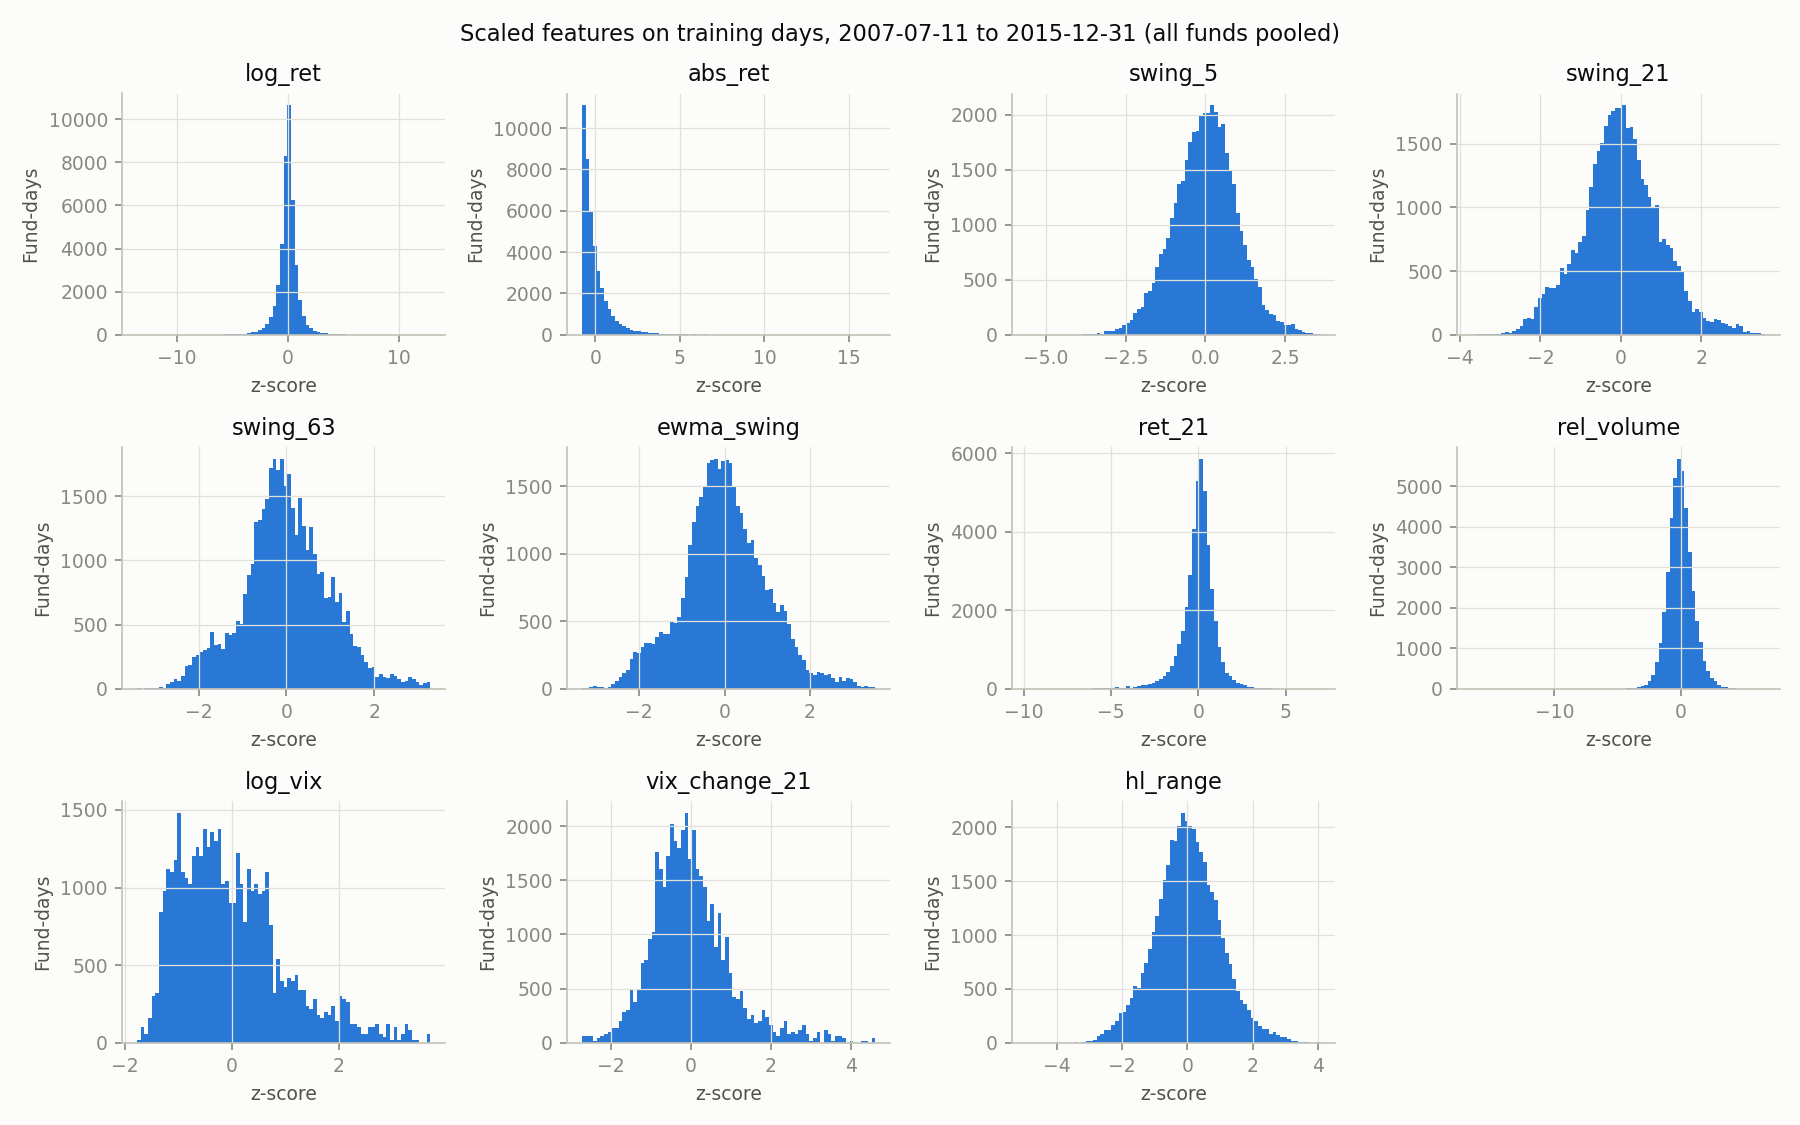
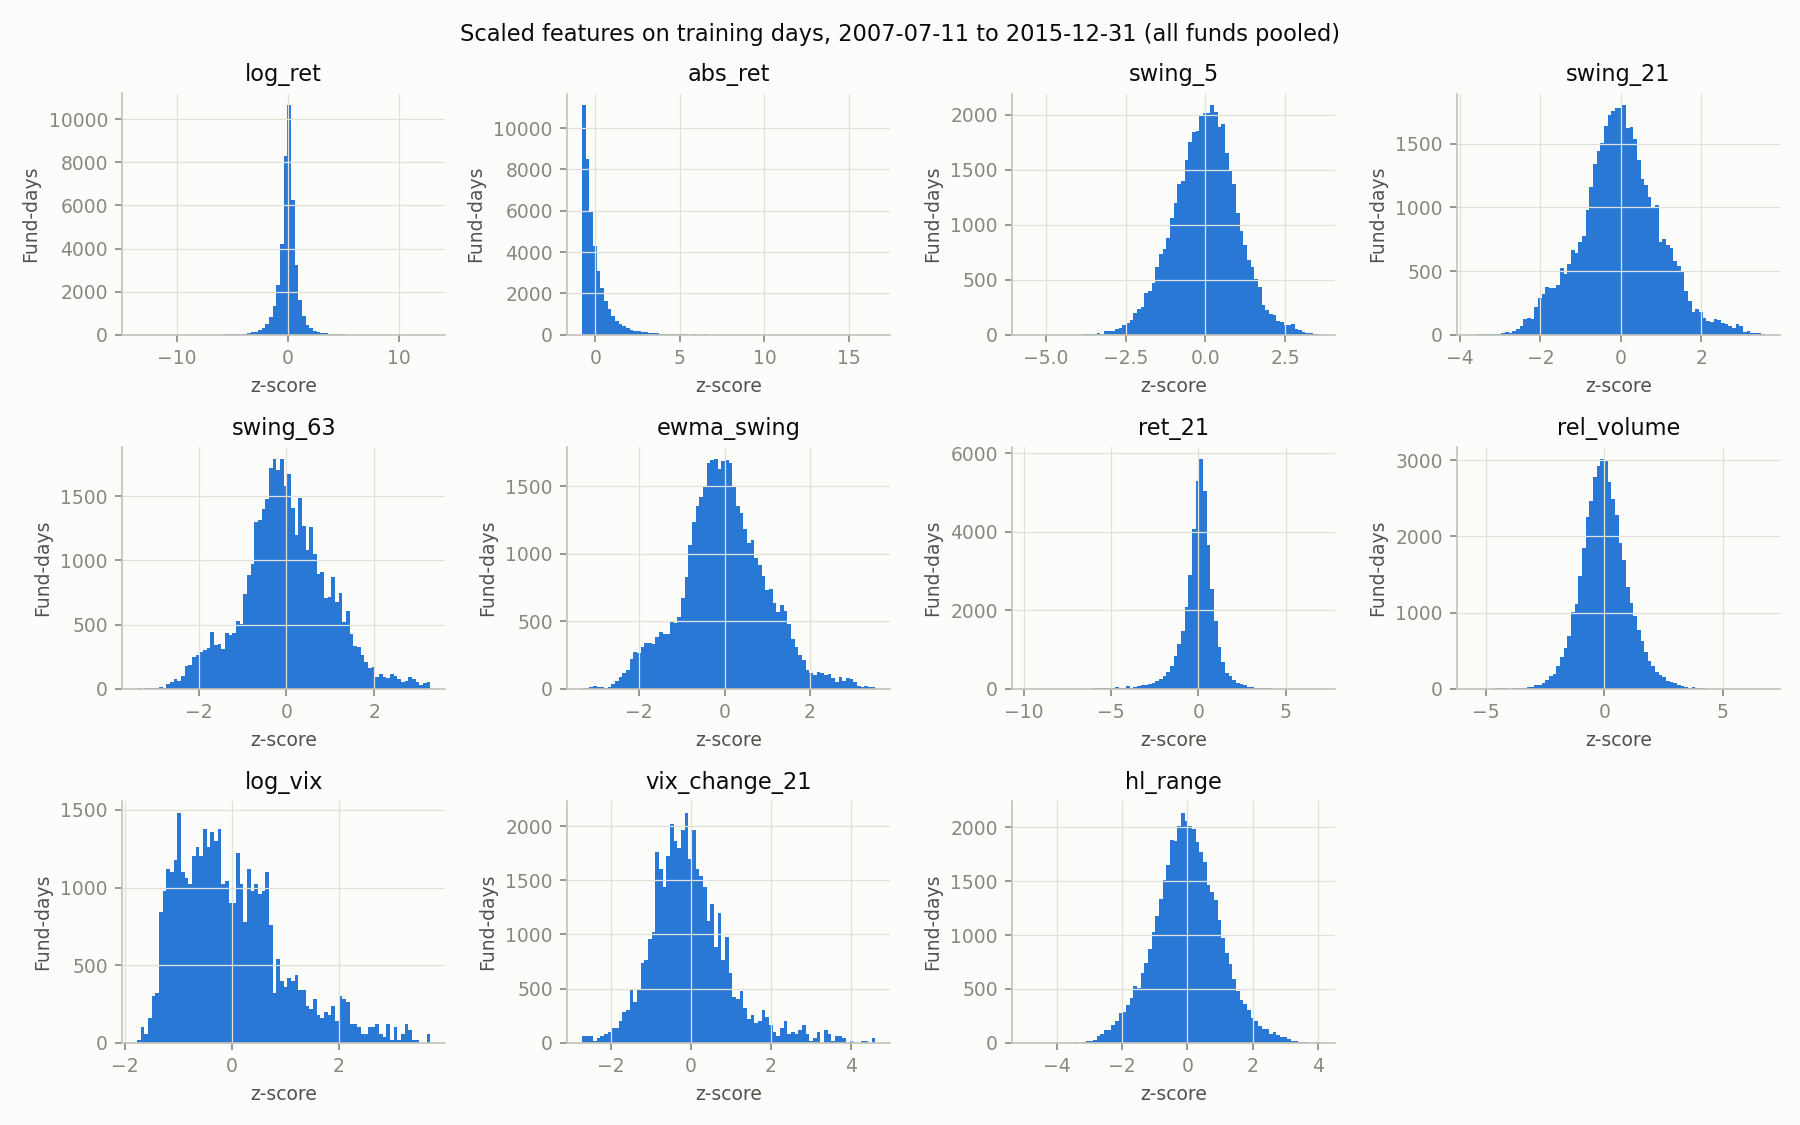
Diagnostics and IWM volume corrections
Add pipeline.diagnostics: volume outliers, Stooq cross-check for IWM,
USO split continuity, GARCH variants on training days.
Stooq volume is dividend-adjusted (median Yahoo/unadjusted Stooq = 1.000),
so 7 bad IWM volumes are replaced with round(stooq_vol * stooq_close / yahoo_close),
listed in results/volume_corrections.csv and applied in the cleaning step.
Only IWM rel_volume changes; forecasts, scores and backtest are unchanged.

Changed region(s): [[0.84, 0.4044, 0.9644, 0.6222], [0.7778, 0.4667, 0.8089, 0.5911], [0.7778, 0.4044, 0.8089, 0.4356]]

diff --git a/src/pipeline/diagnostics.py b/src/pipeline/diagnostics.py
@@ -1,0 +1,166 @@
+"""Diagnostics only (reads data, writes results/diagnostics_*): volume errors, USO split, GARCH variants.
+
+Nothing here changes data/raw or data/clean. Run: python -m pipeline.diagnostics
+"""
+import json
+from pathlib import Path
+
+import numpy as np
+import pandas as pd
+from arch import arch_model
+
+from pipeline.config import PROJECT_ROOT, clean_dir, load_config, raw_dir, results_dir
+from pipeline.examples import load_feature_dates
+
+VOLUME_WINDOW = 63          # median of the previous 63 trading days
+LOW_RATIO, HIGH_RATIO = 0.05, 20.0
+USO_SPLIT_DATE = "2020-04-28"
+SPLIT_WINDOW = 20
+STOOQ_FILE = PROJECT_ROOT / "data" / "external" / "stooq_2026-11-22" / "iwm_us_d.csv"
+
+
+# ---------- 1. volume errors ----------
+
+def volume_flags(raw: pd.DataFrame, ticker: str) -> pd.DataFrame:
+    """Days whose volume is far from the median of the previous 63 days (past data only)."""
+    v = raw[("Volume", ticker)]
+    median = v.shift(1).rolling(VOLUME_WINDOW).median()
+    ratio = v / median
+    hit = (ratio < LOW_RATIO) | (ratio > HIGH_RATIO)
+    o, h, l, c = (raw[(f, ticker)] for f in ["Open", "High", "Low", "Close"])
+    out = pd.DataFrame({"fund": ticker, "volume": v, "median_prev63": median, "ratio": ratio,
+                        "open": o, "high": h, "low": l, "close": c, "prev_close": c.shift(1),
+                        "simple_return_pct": raw[("Adj Close", ticker)].pct_change() * 100})
+    out = out[hit].copy()
+    out["direction"] = np.where(out["ratio"] < LOW_RATIO, "low", "high")
+    out["ohlc_all_equal"] = (out[["open", "high", "low", "close"]].nunique(axis=1) == 1)
+    out["close_equals_prev"] = out["close"] == out["prev_close"]
+    out["stale_row"] = out["ohlc_all_equal"] | out["close_equals_prev"]
+    return out.rename_axis("date").reset_index()
+
+
+def volume_check(raw: pd.DataFrame, tickers: list[str]) -> pd.DataFrame:
+    """All flagged fund-days for all funds."""
+    cols = ["fund", "date", "direction", "volume", "median_prev63", "ratio", "open", "high", "low", "close",
+            "prev_close", "simple_return_pct", "ohlc_all_equal", "close_equals_prev", "stale_row"]
+    return pd.concat([volume_flags(raw, t) for t in tickers], ignore_index=True)[cols]
+
+
+# ---------- 2. Stooq cross-check ----------
+
+def stooq_compare(flags: pd.DataFrame, path: Path) -> pd.DataFrame | None:
+    """Second source for flagged IWM days: is the low volume in Yahoo only?"""
+    if not path.exists():
+        return None
+    s = pd.read_csv(path, parse_dates=["Date"]).set_index("Date")
+    iwm = flags[flags["fund"] == "IWM"].set_index("date")
+    out = pd.DataFrame({"yahoo_volume": iwm["volume"], "stooq_volume": s["Volume"].reindex(iwm.index),
+                        "yahoo_close": iwm["close"], "stooq_close": s["Close"].reindex(iwm.index)})
+    out["volume_ratio_yahoo_over_stooq"] = out["yahoo_volume"] / out["stooq_volume"]
+    out["close_ratio_yahoo_over_stooq"] = out["yahoo_close"] / out["stooq_close"]
+    return out.rename_axis("date").reset_index()
+
+
+def stooq_volume_basis(raw: pd.DataFrame, path: Path, ticker: str, exclude: pd.DatetimeIndex) -> dict:
+    """Stooq adjusts for dividends; check whether its volume is scaled too (dollar volume kept) or left raw."""
+    s = pd.read_csv(path, parse_dates=["Date"]).set_index("Date")
+    days = raw.index.intersection(s.index).difference(exclude)
+    yv, yc = raw[("Volume", ticker)].reindex(days), raw[("Close", ticker)].reindex(days)
+    sv, sc = s["Volume"].reindex(days), s["Close"].reindex(days)
+    return {"fund": ticker, "shared_days_used": len(days), "excluded_flagged_days": len(exclude),
+            "median_yahoo_over_stooq_unadjusted": float((yv / (sv * sc / yc)).median()),
+            "median_yahoo_over_stooq_as_is": float((yv / sv).median())}
+
+
+def stooq_volume_corrections(raw: pd.DataFrame, path: Path, ticker: str, dates: pd.DatetimeIndex) -> pd.DataFrame:
+    """Replacement volumes for confirmed bad days, with Stooq's dividend scaling undone."""
+    s = pd.read_csv(path, parse_dates=["Date"]).set_index("Date").reindex(dates)
+    yc = raw[("Close", ticker)].reindex(dates)
+    new = (s["Volume"] * s["Close"] / yc).round().astype("int64")
+    return pd.DataFrame({"fund": ticker, "date": dates, "field": "Volume",
+                         "old_value": raw[("Volume", ticker)].reindex(dates).to_numpy(), "new_value": new.to_numpy(),
+                         "source": "stooq " + STOOQ_FILE.parent.name.removeprefix("stooq_"),
+                         "method": "round(stooq_volume * stooq_close / yahoo_raw_close)",
+                         "reason": "volume < 5% of prior 63-day median; Stooq shows normal volume"})
+
+
+# ---------- 3. USO split continuity ----------
+
+def split_continuity(raw: pd.DataFrame, ticker: str, date: str, window: int) -> dict:
+    """If volume is split-adjusted, average volume should not jump by the split ratio."""
+    i = raw.index.get_loc(pd.Timestamp(date))
+    before, after = raw.iloc[i - window: i], raw.iloc[i: i + window]
+    vb, va = before[("Volume", ticker)].mean(), after[("Volume", ticker)].mean()
+    return {"fund": ticker, "split_date": date, "window_days": window,
+            "before": f"{before.index[0].date()}..{before.index[-1].date()}",
+            "after": f"{after.index[0].date()}..{after.index[-1].date()}",
+            "mean_volume_before": float(vb), "mean_volume_after": float(va), "after_over_before": float(va / vb),
+            "close_day_before": float(raw[("Close", ticker)].iloc[i - 1]),
+            "close_split_day": float(raw[("Close", ticker)].iloc[i]),
+            "adj_close_return_split_day_pct": float(raw[("Adj Close", ticker)].pct_change().iloc[i] * 100)}
+
+
+# ---------- 4. GARCH variants on training days ----------
+
+GARCH_SPECS = {"garch_normal": dict(p=1, o=0, q=1, dist="normal"),
+               "garch_t": dict(p=1, o=0, q=1, dist="t"),
+               "gjr_normal": dict(p=1, o=1, q=1, dist="normal")}
+
+
+def garch_row(r: np.ndarray, fund: str, spec: str) -> dict:
+    """alpha + beta is the persistence; for GJR the 'effective' one adds gamma / 2."""
+    res = arch_model(r, mean="Constant", vol="GARCH", **GARCH_SPECS[spec]).fit(disp="off")
+    p = res.params
+    a, b, g = p["alpha[1]"], p["beta[1]"], p.get("gamma[1]", 0.0)
+    return {"fund": fund, "model": spec, "alpha": a, "beta": b, "gamma": g if spec == "gjr_normal" else np.nan,
+            "alpha_plus_beta": a + b, "persistence": a + b + g / 2, "nu": p.get("nu", np.nan),
+            "loglik": res.loglikelihood, "converged": res.convergence_flag == 0}
+
+
+def garch_table(R: np.ndarray, tickers: list[str]) -> pd.DataFrame:
+    """Every fund, every model, training days only."""
+    return pd.DataFrame([garch_row(R[:, j], t, s) for j, t in enumerate(tickers) for s in GARCH_SPECS])
+
+
+def main() -> None:
+    cfg = load_config()
+    tickers = cfg["tickers"]
+    raw = pd.read_parquet(raw_dir() / "funds.parquet")     # read only
+
+    flags = volume_check(raw, tickers)
+    flags.to_csv(results_dir() / "volume_check.csv", index=False, date_format="%Y-%m-%d")
+    per_fund = flags.groupby(["fund", "direction"]).size().unstack(fill_value=0).reindex(tickers, fill_value=0)
+    per_year = flags.groupby([flags["date"].dt.year, "direction"]).size().unstack(fill_value=0)
+    per_fund.to_csv(results_dir() / "volume_check_per_fund.csv")
+    per_year.to_csv(results_dir() / "volume_check_per_year.csv", index_label="year")
+
+    stooq = stooq_compare(flags, STOOQ_FILE)
+    if stooq is not None:
+        stooq.to_csv(results_dir() / "volume_check_iwm_stooq.csv", index=False, date_format="%Y-%m-%d")
+        bad = pd.DatetimeIndex(flags.loc[(flags["fund"] == "IWM") & (flags["direction"] == "low"), "date"])
+        basis = stooq_volume_basis(raw, STOOQ_FILE, "IWM", bad)
+        (results_dir() / "stooq_volume_basis.json").write_text(json.dumps(basis, indent=2), encoding="utf-8")
+        print(json.dumps(basis, indent=2))
+        if abs(basis["median_yahoo_over_stooq_unadjusted"] - 1) < 0.01:
+            fixes = stooq_volume_corrections(raw, STOOQ_FILE, "IWM", bad)
+            fixes.to_csv(results_dir() / "volume_corrections.csv", index=False, date_format="%Y-%m-%d")
+            print(fixes.to_string())
+
+    uso = split_continuity(raw, "USO", USO_SPLIT_DATE, SPLIT_WINDOW)
+    (results_dir() / "uso_split_check.json").write_text(json.dumps(uso, indent=2), encoding="utf-8")
+
+    R = np.load(clean_dir() / "returns_pct.npy")
+    train = np.asarray(load_feature_dates() <= cfg["train_end"])
+    garch = garch_table(R[train], tickers)
+    garch.round(6).to_csv(results_dir() / "garch_variants_train.csv", index=False)
+
+    pd.set_option("display.width", 200)
+    print(f"flagged fund-days: {len(flags)}\n", per_fund[per_fund.sum(axis=1) > 0], "\n", per_year)
+    print(flags.drop(columns=["open", "high", "low"]).to_string())
+    print(stooq.to_string() if stooq is not None else "Stooq file not found")
+    print(json.dumps(uso, indent=2))
+    print(garch.round(4).to_string())
+
+
+if __name__ == "__main__":
+    main()

diff --git a/src/pipeline/clean.py b/src/pipeline/clean.py
@@ -65,6 +65,27 @@ def apply_missing_rule(df: pd.DataFrame, rule: str) -> tuple[pd.DataFrame, pd.Da
     return out.loc[~still_missing], pd.concat(flags, ignore_index=True)
 
 
+def apply_corrections(df: pd.DataFrame, corrections: pd.DataFrame) -> tuple[pd.DataFrame, pd.DataFrame]:
+    """Replace values proven wrong by a second source; each must still match the raw value it replaces."""
+    out = df.copy()
+    for row in corrections.itertuples(index=False):
+        date, col = pd.Timestamp(row.date), (row.field, row.fund)
+        if out.at[date, col] != row.old_value:
+            raise ValueError(f"correction {row.fund} {row.field} {row.date}: raw value {out.at[date, col]} "
+                             f"!= old_value {row.old_value}")
+        out.at[date, col] = row.new_value
+    flags = pd.DataFrame({"date": pd.to_datetime(corrections["date"]), "series": corrections["fund"],
+                          "field": corrections["field"], "flag": "corrected"})
+    return out, flags
+
+
+def load_corrections() -> pd.DataFrame:
+    """Team-approved corrections (results/volume_corrections.csv); none if the file is absent."""
+    path = results_dir() / "volume_corrections.csv"
+    cols = ["fund", "date", "field", "old_value", "new_value"]
+    return pd.read_csv(path) if path.exists() else pd.DataFrame(columns=cols)
+
+
 def _long(mask: pd.DataFrame, values: pd.DataFrame, check: str) -> pd.DataFrame:
     """Turn a dates x tickers boolean mask into rows (date, ticker, check, value)."""
     s = values.where(mask).stack(future_stack=True).dropna()
@@ -191,8 +212,11 @@ def main() -> None:
     if rule is None:
         raise SystemExit("\nStep 2a done. missing_days_rule is not set in config.yaml: the team must choose "
                          f"one of {RULES} after reading the report. Step 2b (cleaning) not run.")
+    corrections = load_corrections()
+    wide, fix_flags = apply_corrections(wide, corrections)
     clean, flags = apply_missing_rule(wide, rule)
-    report = write_clean(clean, vix, irx, flags, cfg)
+    report = write_clean(clean, vix, irx, pd.concat([flags, fix_flags], ignore_index=True), cfg)
+    report["cells_corrected"] = len(corrections)
     (results_dir() / "quality_report.json").write_text(json.dumps(report, indent=2), encoding="utf-8")
     print(json.dumps(report, indent=2))
 

diff --git a/tests/test_clean.py b/tests/test_clean.py
@@ -26,3 +26,16 @@ def test_align_uses_previous_value_only():
     s = pd.Series([10.0, 30.0], index=[cal[0], cal[3]])
     aligned, filled = align_to_calendar(s, cal)
     assert aligned.tolist() == [10.0, 10.0, 10.0, 30.0] and len(filled) == 2
+
+
+def test_apply_corrections_replaces_and_guards_old_value():
+    import pytest
+    from pipeline.clean import apply_corrections
+    idx = pd.to_datetime(["2008-03-24", "2008-03-25"])
+    df = pd.DataFrame({("Volume", "IWM"): [90.0, 1.0]}, index=idx)
+    fix = pd.DataFrame({"fund": ["IWM"], "date": ["2008-03-25"], "field": ["Volume"], "old_value": [1], "new_value": [70]})
+    out, flags = apply_corrections(df, fix)
+    assert out.at[idx[1], ("Volume", "IWM")] == 70 and df.at[idx[1], ("Volume", "IWM")] == 1
+    assert flags["flag"].tolist() == ["corrected"]
+    with pytest.raises(ValueError):
+        apply_corrections(df, fix.assign(old_value=5))
